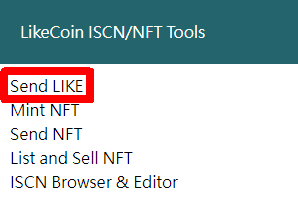
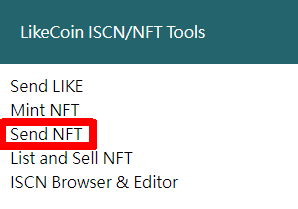
GITBOOK-4717: 銷毁已出版的電子書

Changed region(s): [[0.0, 0.3158, 0.3322, 0.5167], [0.0, 0.5455, 0.3322, 0.7177]]

diff --git a/depub/nft-book-press/burn.md b/depub/nft-book-press/burn.md
@@ -26,7 +26,7 @@ description: 刪除已發行的電子書
 
 <figure><img src="../../.gitbook/assets/Burn NFT Book 2.png" alt=""><figcaption><p>點「LikeCoin ISCN/NFT Tools」</p></figcaption></figure>
 
-到達 [LikeCoin ISCN/NFT Tools](https://likecoin.github.io/iscn-nft-tools/) 網站後點右上角「Connect」連結錢包，再點「Send NFT」。
+到達 [LikeCoin ISCN/NFT Tools](https://likecoin.github.io/iscn-nft-tools/) 網站後點右上角「Connect」連結錢包，再點「[Send NFT](https://likecoin.github.io/iscn-nft-tools/send-nft)」。
 
 <figure><img src="../../.gitbook/assets/Burn NFT Book 3.png" alt=""><figcaption><p>點「Send NFT」</p></figcaption></figure>
 
@@ -52,4 +52,4 @@ description: 刪除已發行的電子書
 
 <figure><img src="../../.gitbook/assets/Burn NFT Book 8.png" alt=""><figcaption><p>在 Transfer to 輸入垃圾桶地址再點「Transfer」</p></figcaption></figure>
 
-完成以上步驟後，Liker Land 個人主頁便不會再出現已遭丟棄的那本書。
+完成以上步驟後，Liker Land [我的書架](../liker-land/bookshelf.md)便不會再出現已遭丟棄的那本書。

diff --git a/depub/nft-book-press/user.md b/depub/nft-book-press/user.md
@@ -18,6 +18,12 @@ description: 加入及更改用戶設定，參與推廣聯盟計劃
 [register](../register/)
 {% endcontent-ref %}
 
+亦可修改頭像及顯示名稱：
+
+{% content-ref url="../register/edit-avatar-displayname.md" %}
+[edit-avatar-displayname.md](../register/edit-avatar-displayname.md)
+{% endcontent-ref %}
+
 完成設定後顯示 Affiliation channel ID。
 
 <figure><img src="../../.gitbook/assets/Manage Stripe Account 11.png" alt=""><figcaption><p>Affiliation channel ID</p></figcaption></figure>

diff --git a/depub/nft-book-press/README.md b/depub/nft-book-press/README.md
@@ -28,7 +28,7 @@ description: 使用 NFT Book Press 將電子書出版為 NFT
 9. [修改已出版的電子書資料](modify.md)
 10. [銷毁已出版的電子書](burn.md)
 11. [發送電子書及群發 NFT 紀念品到多個錢包](../transfer-nft.md)
-12. [匯入 EPUB 檔案到各家閱讀器](./#ereader)
+12. [匯入 EPUB 檔案到各家閱讀器](../ebook/read.md)
 13. [設置 Liker Land 書店作者簡介](../register/edit-avatar-displayname.md)
 
 ***
